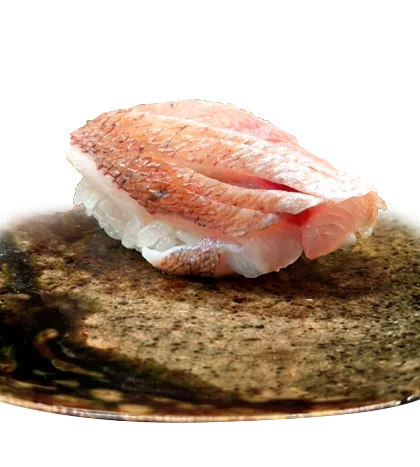
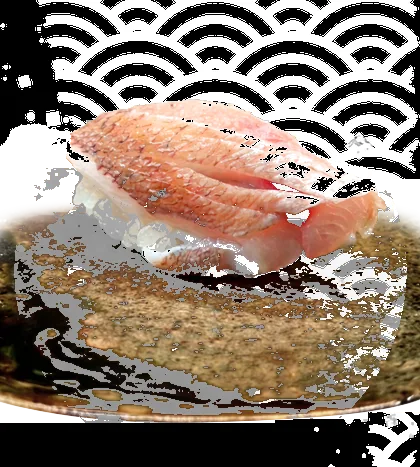
feat: ヒーロー画像を bg 合成・皿ニュートラル化（ローカル確認用）
5453670612.png を背景に、compose-hero-sushi-photo-bg.py で再生成。
元 PNG は sushi-photo-0.original.png に保存。デプロイは未実施。

Made-with: Cursor

diff --git a/index.html b/index.html
@@ -3,7 +3,7 @@
 <head>
   <meta charset="UTF-8">
   <meta name="viewport" content="width=device-width, initial-scale=1, viewport-fit=cover">
-  <link rel="preload" as="image" href="./images/opt/hero-sushi-720w.webp" type="image/webp" media="(max-width: 767px)">
+  <link rel="preload" as="image" href="./images/opt/hero-sushi-720w.webp?v=20260405-hero-bg545" type="image/webp" media="(max-width: 767px)">
   <meta id="metaDescription" name="description"
     content="鮨し禅は大阪・東心斎橋の隠れ家にあるカウンター10席の割烹寿司店です。旬の食材を活かしたおまかせ鮨をご堪能ください。心斎橋駅徒歩5分。">
   <meta id="metaKeywords" name="Keywords" content="鮨し禅,心斎橋,大阪,寿司,鮨,おまかせ" />
@@ -129,8 +129,8 @@
         </div>
           <figure class="header__image_kv">
             <picture>
-              <source type="image/webp" media="(max-width: 767px)" srcset="./images/opt/hero-sushi-720w.webp">
-              <img src="./images/photo/sushi-photo-0.png" alt="鮨し禅｜大阪心斎橋の隠れ家鮨" data-i18n-attrs="alt:hero_alt" width="420" height="467" fetchpriority="high" decoding="async">
+              <source type="image/webp" media="(max-width: 767px)" srcset="./images/opt/hero-sushi-720w.webp?v=20260405-hero-bg545">
+              <img src="./images/photo/sushi-photo-0.png?v=20260405-hero-bg545" alt="鮨し禅｜大阪心斎橋の隠れ家鮨" data-i18n-attrs="alt:hero_alt" width="420" height="467" fetchpriority="high" decoding="async">
             </picture>
           </figure>
       </div>

diff --git a/scripts/compose-hero-sushi-photo-bg.py b/scripts/compose-hero-sushi-photo-bg.py
@@ -1,0 +1,100 @@
+#!/usr/bin/env python3
+"""
+ヒーロー用 sushi-photo-0.png: 近白背景を bg 画像で置換し、皿領域の彩度を落としてニュートラル化。
+依存: Pillow のみ（numpy 不要）。
+
+使用例:
+  python3 scripts/compose-hero-sushi-photo-bg.py
+
+参照（ローカル）:
+  元: images/photo/sushi-photo-0.original.png
+  背景: images/bg/5453670612.png
+  出力: images/photo/sushi-photo-0.png
+"""
+from __future__ import annotations
+
+import argparse
+import math
+from pathlib import Path
+
+from PIL import Image
+
+ROOT = Path(__file__).resolve().parents[1]
+
+
+def cover_crop_resize(bg: Image.Image, tw: int, th: int) -> Image.Image:
+    bw, bh = bg.size
+    scale = max(tw / bw, th / bh)
+    nw, nh = int(bw * scale + 0.5), int(bh * scale + 0.5)
+    bg = bg.resize((nw, nh), Image.Resampling.LANCZOS)
+    x0 = (nw - tw) // 2
+    y0 = (nh - th) // 2
+    return bg.crop((x0, y0, x0 + tw, y0 + th))
+
+
+def main() -> None:
+    p = argparse.ArgumentParser()
+    p.add_argument("--input", type=Path, default=ROOT / "images/photo/sushi-photo-0.original.png")
+    p.add_argument("--bg", type=Path, default=ROOT / "images/bg/5453670612.png")
+    p.add_argument("--output", type=Path, default=ROOT / "images/photo/sushi-photo-0.png")
+    p.add_argument(
+        "--white-cut",
+        type=int,
+        default=242,
+        help="RGB がすべてこの値以上なら背景（アンチエイリアス対策で 248 より緩め）",
+    )
+    args = p.parse_args()
+
+    fg = Image.open(args.input).convert("RGBA")
+    w, h = fg.size
+    px = fg.load()
+    bg_img = cover_crop_resize(Image.open(args.bg).convert("RGBA"), w, h)
+    bp = bg_img.load()
+
+    cx, cy = w * 0.5, h * 0.58
+    max_r = max(w, h) * 0.42
+
+    for y in range(h):
+        for x in range(w):
+            r, g, b, al = px[x, y]
+            luma = 0.299 * r + 0.587 * g + 0.114 * b
+            maxc = max(r, g, b)
+            minc = min(r, g, b)
+            sat = 0.0 if maxc < 1 else (maxc - minc) / maxc
+
+            dist = math.hypot(x - cx, y - cy)
+
+            if r >= args.white_cut and g >= args.white_cut and b >= args.white_cut:
+                br, bgc, bb, _ = bp[x, y]
+                px[x, y] = (br, bgc, bb, 255)
+                continue
+
+            skin = (r > g + 18) and (r > b + 5) and luma > 70
+            plate_like = (
+                (luma < 210)
+                and (luma > 22)
+                and (sat > 0.05)
+                and (dist < max_r)
+                and (y > h * 0.20)
+                and (not skin)
+                and (luma < 188)
+            )
+            if plate_like:
+                gry = luma
+                # 皿の色味を弱め、明るいグレー皿に近づける
+                nr = int(gry * 0.22 + 232)
+                ng = int(gry * 0.22 + 232)
+                nb = int(gry * 0.22 + 232)
+                br, bgc, bb, _ = bp[x, y]
+                blend = 0.62
+                tr = int(nr * blend + br * (1 - blend))
+                tg = int(ng * blend + bgc * (1 - blend))
+                tb = int(nb * blend + bb * (1 - blend))
+                px[x, y] = (tr, tg, tb, 255)
+
+    fg.save(args.output, optimize=True)
+    print("wrote", args.output)
+
+
+if __name__ == "__main__":
+    main()

diff --git a/docs/SUSHI_SITE_TEMPLATE_GUIDE.md b/docs/SUSHI_SITE_TEMPLATE_GUIDE.md
@@ -95,6 +95,13 @@
   ```  
   新しい元画像を追加したら `scripts/generate-mobile-images.cjs` に `outWebp(...)` を1行足すのが安全。
 
+- **ヒーロー（`sushi-photo-0.png`）の背景差し替え・皿のニュートラル化（実験用）**  
+  `images/photo/sushi-photo-0.original.png` をバックアップとして残し、`images/bg/5453670612.png` を背景に合成する例:
+  ```bash
+  python3 scripts/compose-hero-sushi-photo-bg.py
+  ```
+  続けてモバイル用 WebP を更新（`hero-sushi-720w.webp` は `sushi-photo-0.png` から sharp で再生成）。`index.html` のヒーロー画像に `?v=` を付けてキャッシュを切る。
+
 ---
 
 ## CSS の注意
